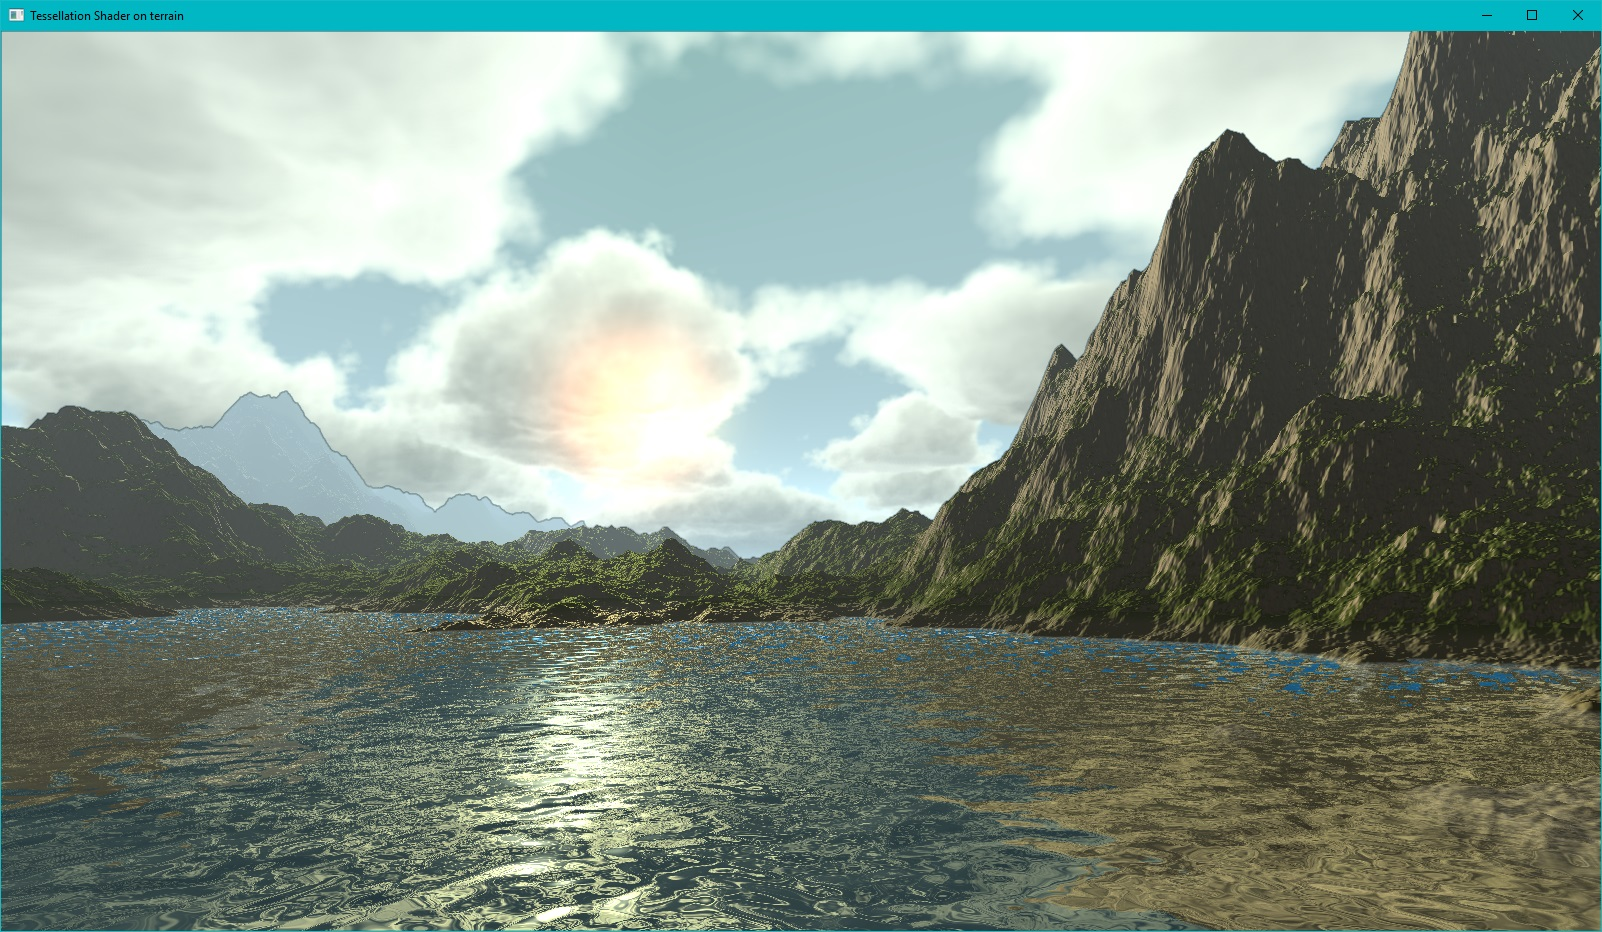
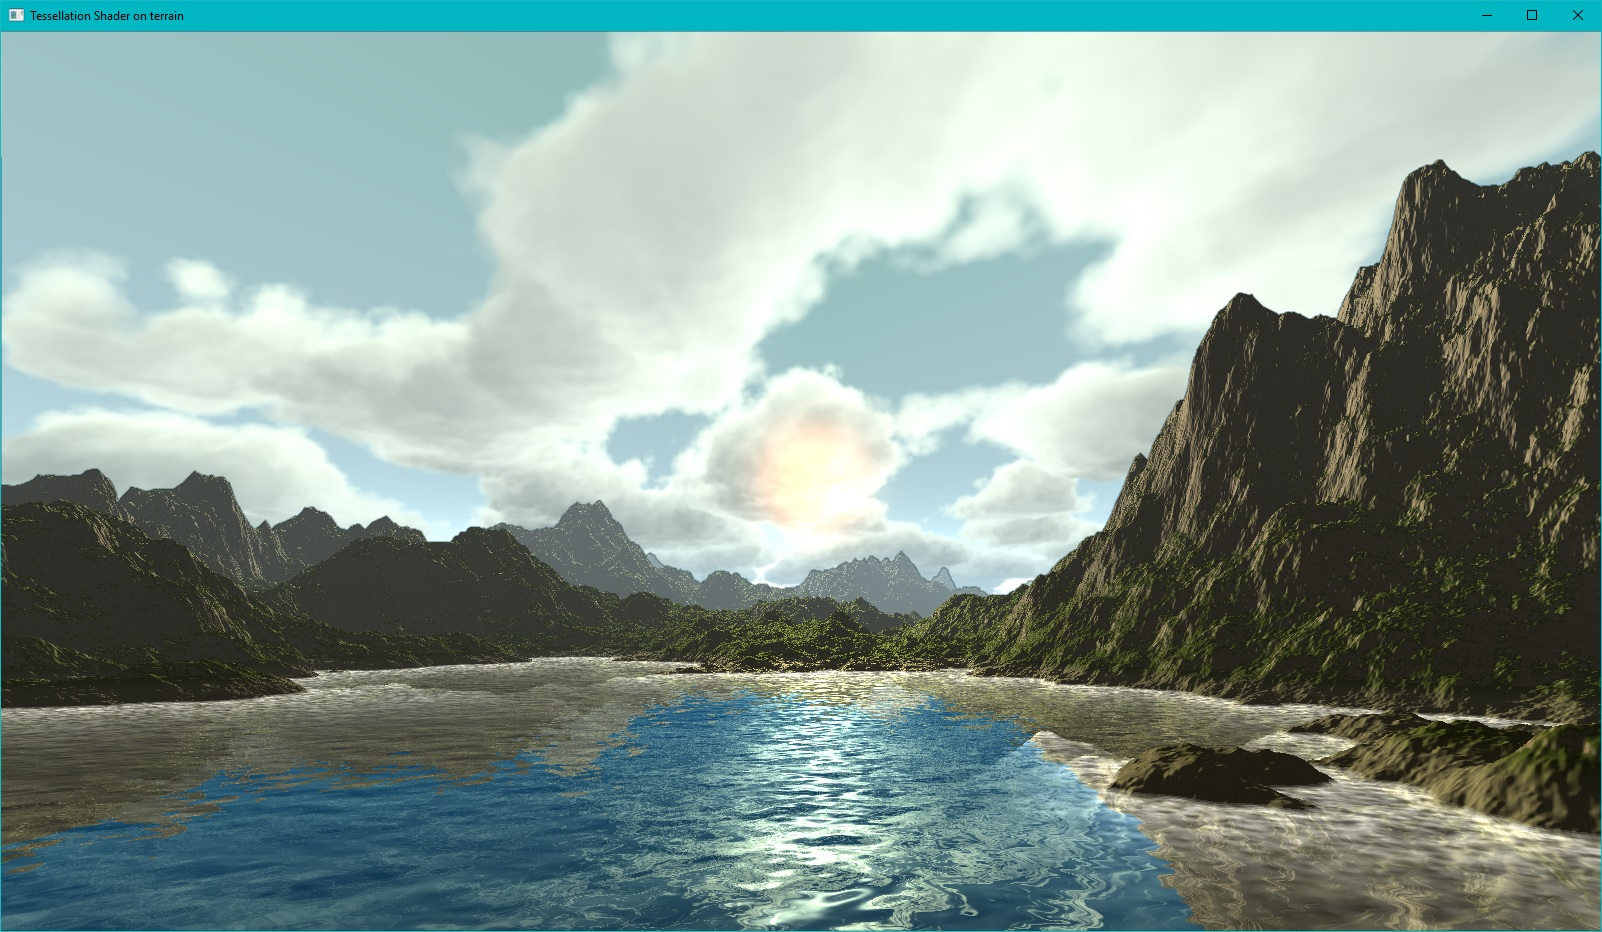
fix water edges

diff --git a/buffers.cpp b/buffers.cpp
@@ -24,7 +24,7 @@ unsigned int createTextureAttachment(int width, int height) {
 	unsigned int texture;
 	glGenTextures(1, &texture);
 	glBindTexture(GL_TEXTURE_2D, texture);
-	glTexImage2D(GL_TEXTURE_2D, 0, GL_RGBA, width, height, 0, GL_RGB, GL_UNSIGNED_BYTE, NULL);
+	glTexImage2D(GL_TEXTURE_2D, 0, GL_RGBA, width, height, 0, GL_RGBA, GL_UNSIGNED_BYTE, NULL);
 	glGenerateMipmap(GL_TEXTURE_2D);
 
 	glTexParameteri(GL_TEXTURE_2D, GL_TEXTURE_MIN_FILTER, GL_LINEAR);

diff --git a/Main.cpp b/Main.cpp
@@ -452,7 +452,7 @@ int main()
 
 		// Camera (View Matrix) setting
 		glm::mat4 view = camera.GetViewMatrix();
-		glm::mat4 proj = glm::perspective(glm::radians(camera.Zoom), (float)SCR_WIDTH / (float)SCR_HEIGHT, 10.f, 10000.0f);
+		glm::mat4 proj = glm::perspective(glm::radians(camera.Zoom), (float)SCR_WIDTH / (float)SCR_HEIGHT, 10.f, 200000.0f);
 
 
 		// set terrain matrices

diff --git a/TileController.cpp b/TileController.cpp
@@ -27,7 +27,7 @@ TileController::TileController(float scale, float disp, Camera * camera, Tessell
 	dudvMap = TextureFromFile("waterDUDV.png", "resources", false);
 	normalMap = TextureFromFile("normalMap.png", "resources", false);
 
-	waterHeight = 120;
+	waterHeight = 120.0;
 
 	position.resize(gridLenght*gridLenght);
 	for (int i = 0; i < gridLenght; i++) {
